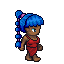
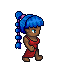
player walk animation with more frames

Changed region(s): [[0.2188, 0.1562, 0.6875, 0.9688]]

diff --git a/init.js b/init.js
@@ -352,7 +352,7 @@ class Entity {
     }
 
     request_start_walking_frame() {
-        return 0
+        return 1
     }
 
     request_next_walking_frame() {
@@ -2628,8 +2628,8 @@ class Player extends Entity {
         this.ladder_anim_speed = 8 //higher = slower!
 
         this.is_player = true
-        this.speed = 4.5
-        this.anim_speed = 14
+        this.speed = 3.8
+        this.anim_speed = 20
         this.image = "anselmo"
         this.player = true
         this.x = 40
@@ -2682,6 +2682,14 @@ class Player extends Entity {
 
     //ce.bottom1.collides ||
     //ce.bottom2.collides     
+
+    request_next_walking_frame() {
+        //standard simple walking animation
+        //with two frames. monster sub-classes can override this.
+        this.anim_frame++
+        if (this.anim_frame >= 9) this.anim_frame = 1
+        return this.anim_frame
+    }
 
     update(info) {
 
@@ -2791,13 +2799,13 @@ class Player extends Entity {
         let x = info.keys.key_down.up
         let x2 = info.keys.key_down.down
         if (x || x2) {
-            console.log("pressing up or down", info.coll)
+            //console.log("pressing up or down", info.coll)
             //check if touching ladder
             let target = false
             for (let item of info.coll.entity_vs_entity) {
                 if (item.is_ladder) {
                     target = item //problem if you are touching two ladders while jumping? solution: maybe upper ladder can always have priority?
-                    console.log("touching ladder")
+                    //console.log("touching ladder")
                     break
                 }
             }
@@ -2821,7 +2829,7 @@ class Player extends Entity {
                         this.anim_frame = 1
                     }
                 }
-                console.log("climb")
+                //console.log("climb")
             }
 
         }
@@ -2854,16 +2862,17 @@ class Player extends Entity {
 
         if (keys.key_down.left) {
             this.x -= this.speed
-            this.walking = true
+            this.walking = true //todo: do not set this true if in mid air
             this.last_mov_x = -this.speed
             this.direction = -1
         }
 
         if (keys.key_down.right) {
             this.x += this.speed
-            this.walking = true
+            this.walking = true //todo: do not set this true if in mid air
             this.last_mov_x = this.speed
             this.direction = 1
+            console.log(888)
         }
 
         this.shoot_input = false
@@ -2877,10 +2886,9 @@ class Player extends Entity {
                 this.stop_walking()
         }
 
-        if (keys.key_just_pressed_down.left ||
-            keys.key_just_pressed_down.right) {
-                this.anim_frame = 1
-                this.anim_counter = 0
+        if ( this.state === "on_ground" && (keys.key_just_pressed_down.left ||
+            keys.key_just_pressed_down.right)) {
+                this.start_walking()
         }
 
         if (this.state === "jumping"

diff --git a/index.html b/index.html
@@ -316,10 +316,26 @@
     <img id="ladder0" src="assets/ladder.png">
     
 
+
     <img src="assets/adv/char/anselmo0.png">
     <img src="assets/adv/char/anselmo1.png">
+    <img src="assets/adv/char/anselmo2.png">
+    <img src="assets/adv/char/anselmo3.png">
+    <img src="assets/adv/char/anselmo4.png">
+    <img src="assets/adv/char/anselmo5.png">
+    <img src="assets/adv/char/anselmo6.png">
+    <img src="assets/adv/char/anselmo7.png">
+    <img src="assets/adv/char/anselmo8.png">
+    
     <img src="assets/adv/char/anselmo0r.png">
     <img src="assets/adv/char/anselmo1r.png">
+    <img src="assets/adv/char/anselmo2r.png">
+    <img src="assets/adv/char/anselmo3r.png">
+    <img src="assets/adv/char/anselmo4r.png">
+    <img src="assets/adv/char/anselmo5r.png">
+    <img src="assets/adv/char/anselmo6r.png">
+    <img src="assets/adv/char/anselmo7r.png">
+    <img src="assets/adv/char/anselmo8r.png">
     
     
     <img id="anselmoladder0" src="assets/adv/char/anselmoladder0.png">

diff --git a/level-templates.js b/level-templates.js
@@ -250,8 +250,8 @@ level_templates = (function() {
             ........................................
             ........................................
             ....x.xx................................
-            ........................................
             ............#...........................
+            ........................................
             ........................................
             ......x.................................
             ...x.....x..............................
